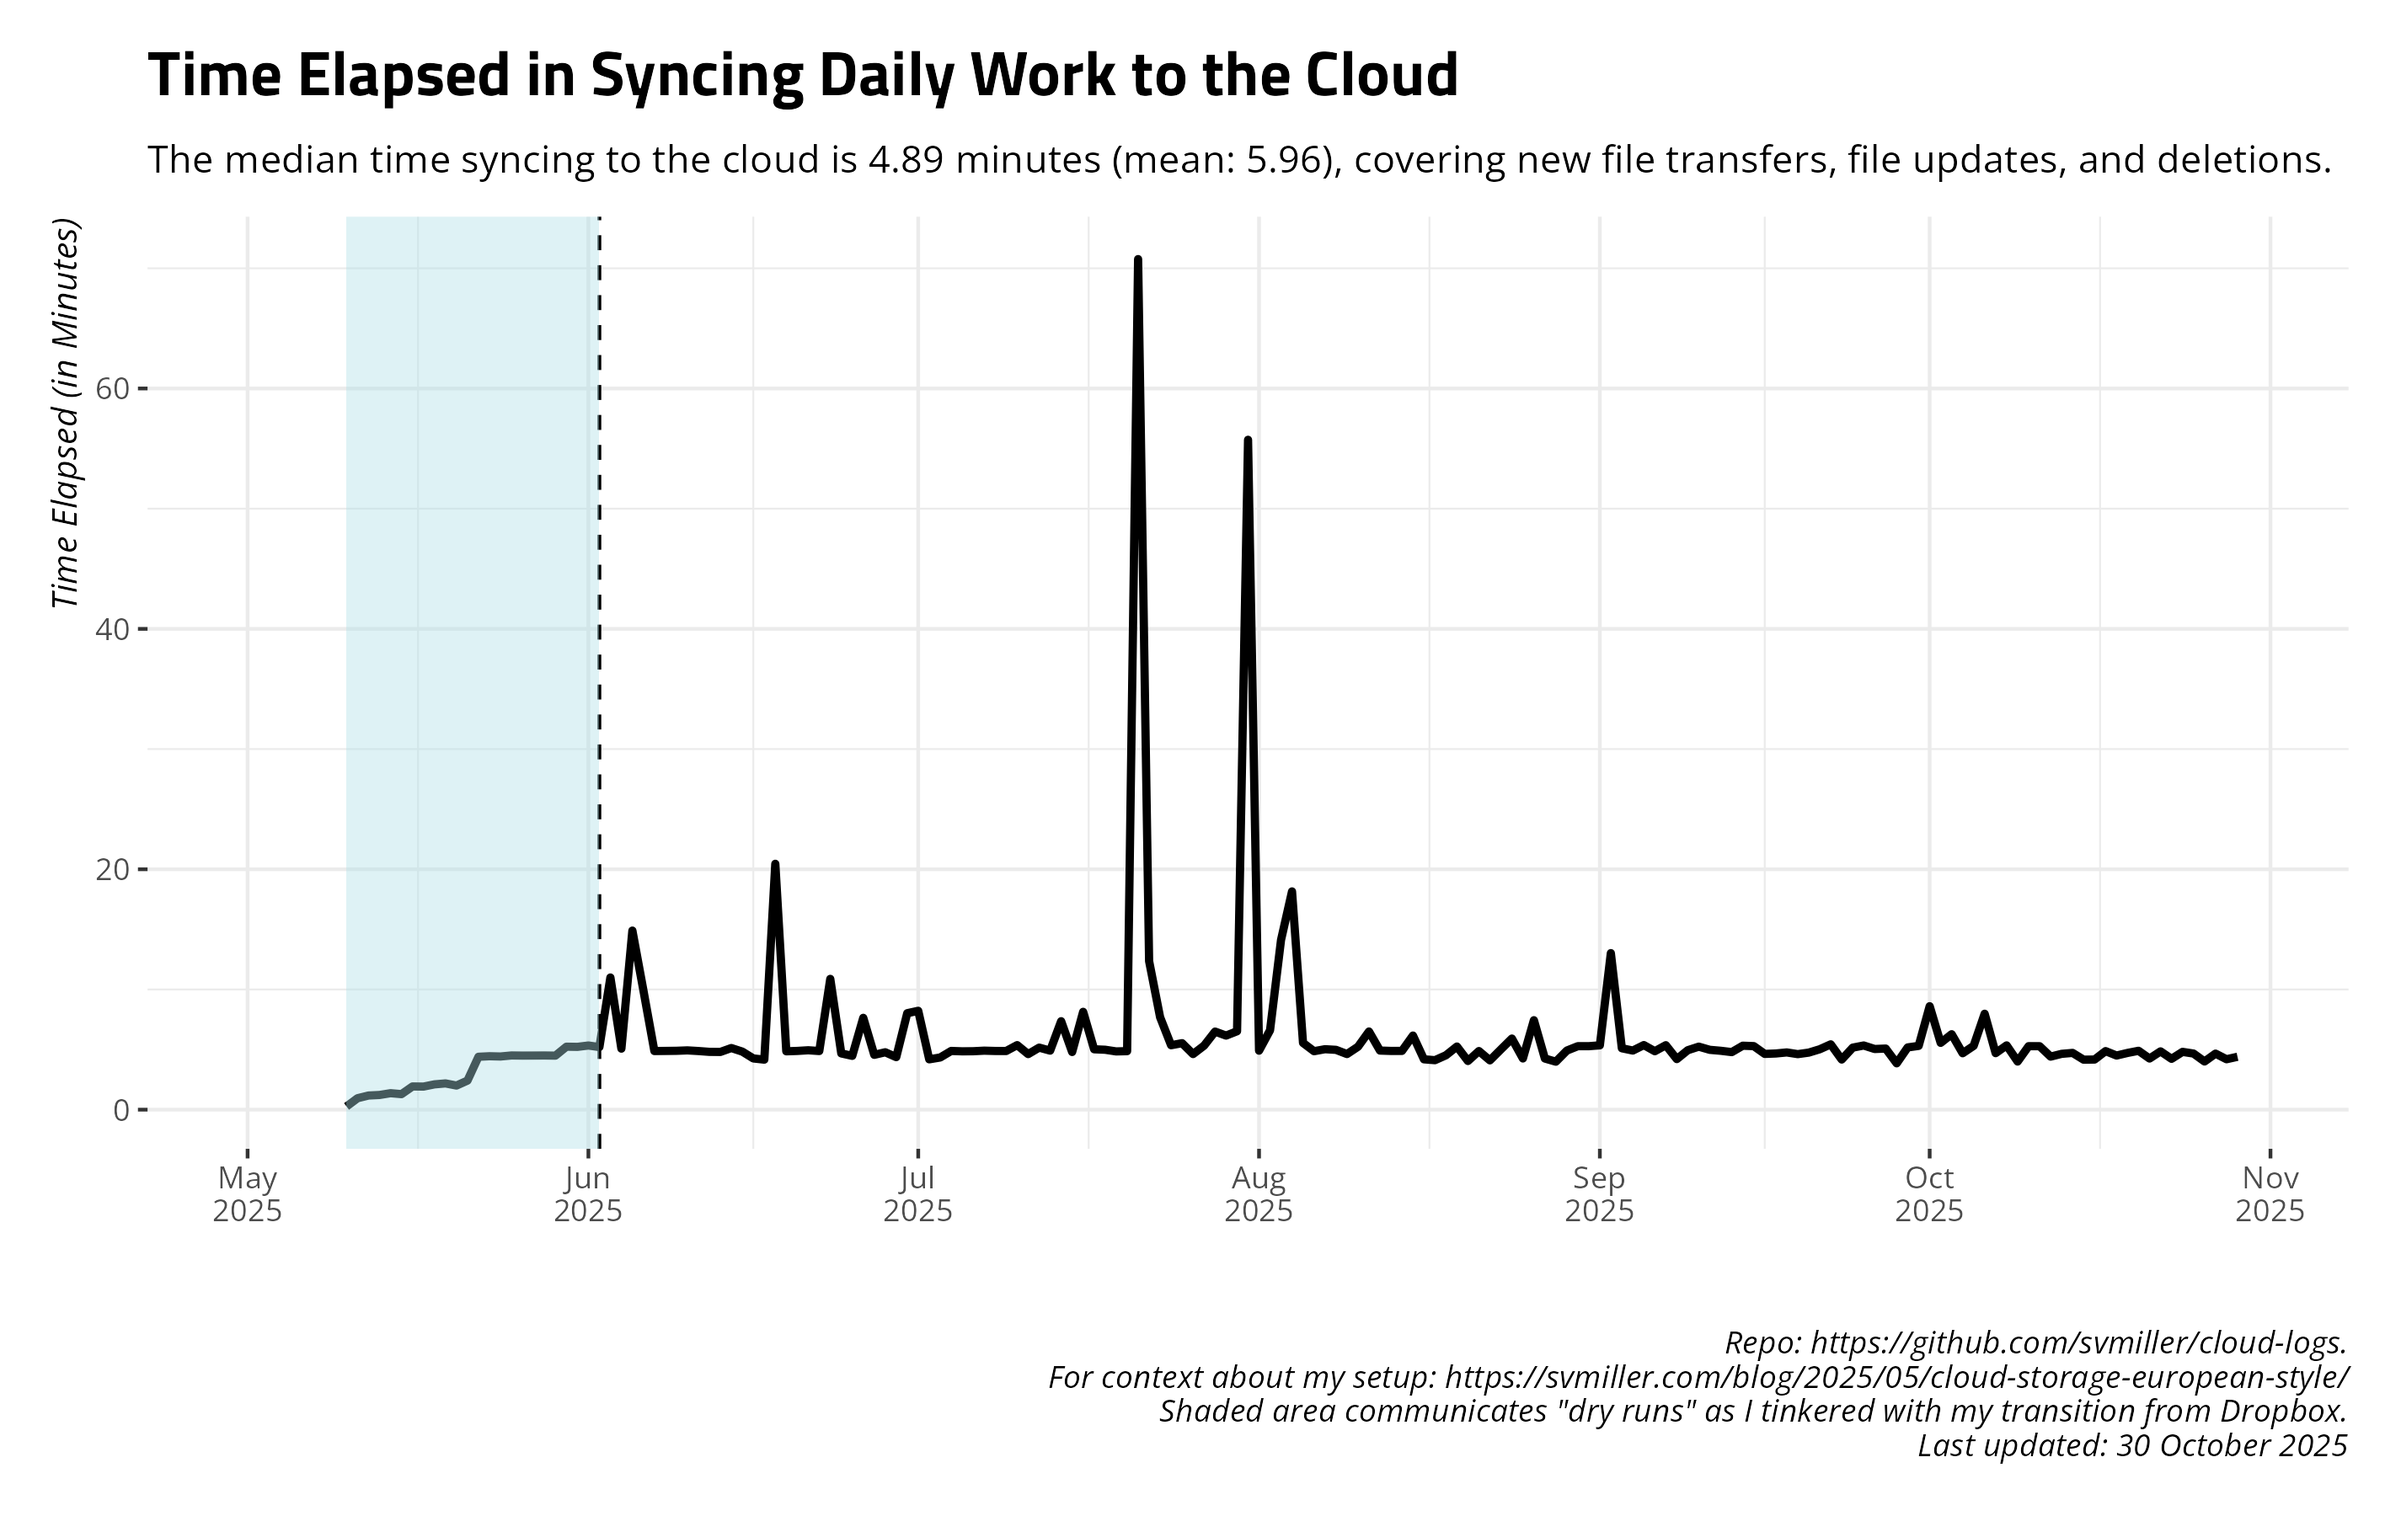
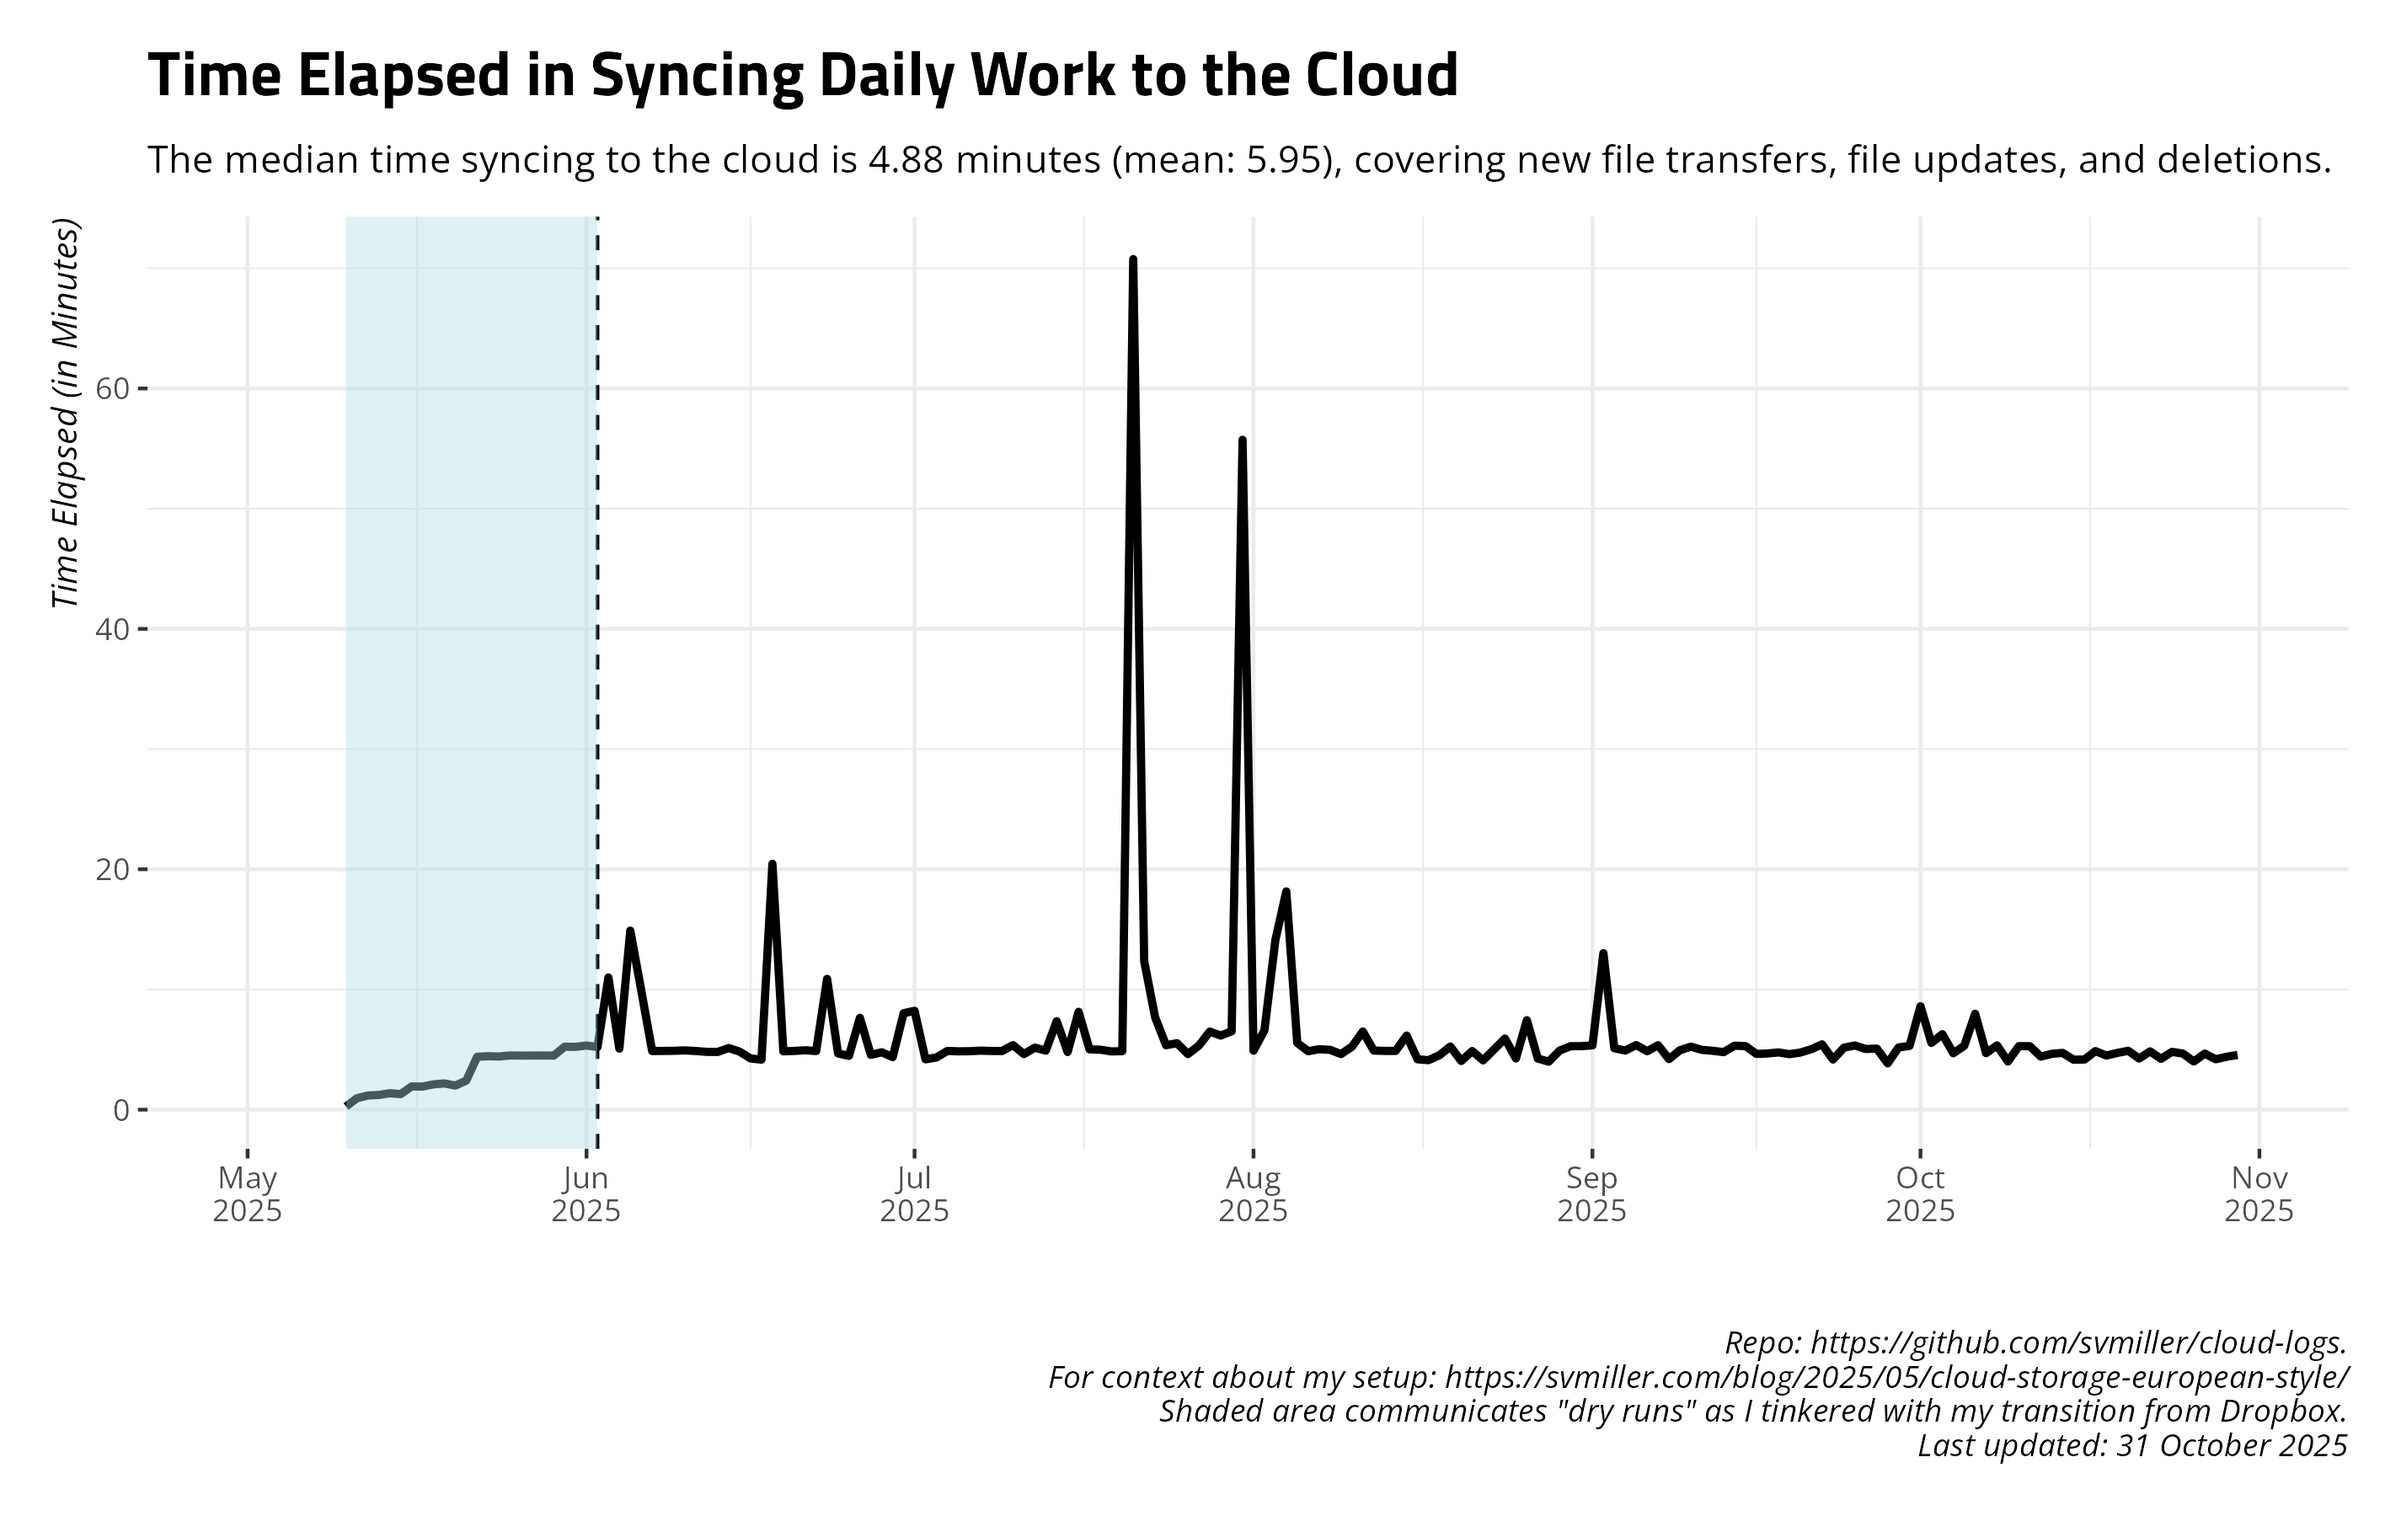
Date: 2025-10-31 09:00:17. Hi mom!

diff --git a/README.md b/README.md
@@ -27,17 +27,17 @@ and uploads to Github.
     #> # A tibble: 14 × 4
     #>    date       ftransfer stransfer   elapsed
     #>    <date>         <dbl> <chr>       <chr>  
-    #>  1 2025-10-16        73 3.849 MiB   4m10.2s
-    #>  2 2025-10-17       113 3.125 MiB   4m52.3s
-    #>  3 2025-10-18        48 633.468 KiB 4m30.2s
-    #>  4 2025-10-19        22 67.056 KiB  4m43.2s
-    #>  5 2025-10-20        37 397.260 KiB 4m53.9s
-    #>  6 2025-10-21       332 55.643 MiB  4m15.2s
-    #>  7 2025-10-22        13 1.903 MiB   4m51.0s
-    #>  8 2025-10-23        68 2.442 MiB   4m13.7s
-    #>  9 2025-10-24        49 714.508 KiB 4m48.5s
-    #> 10 2025-10-25        95 6.259 MiB   4m40.1s
-    #> 11 2025-10-26        42 393.283 KiB 4m0.4s 
-    #> 12 2025-10-27        24 143.556 KiB 4m39.8s
-    #> 13 2025-10-28       251 13.888 MiB  4m11.7s
-    #> 14 2025-10-29       111 8.451 MiB   4m24.0s
+    #>  1 2025-10-17       113 3.125 MiB   4m52.3s
+    #>  2 2025-10-18        48 633.468 KiB 4m30.2s
+    #>  3 2025-10-19        22 67.056 KiB  4m43.2s
+    #>  4 2025-10-20        37 397.260 KiB 4m53.9s
+    #>  5 2025-10-21       332 55.643 MiB  4m15.2s
+    #>  6 2025-10-22        13 1.903 MiB   4m51.0s
+    #>  7 2025-10-23        68 2.442 MiB   4m13.7s
+    #>  8 2025-10-24        49 714.508 KiB 4m48.5s
+    #>  9 2025-10-25        95 6.259 MiB   4m40.1s
+    #> 10 2025-10-26        42 393.283 KiB 4m0.4s 
+    #> 11 2025-10-27        24 143.556 KiB 4m39.8s
+    #> 12 2025-10-28       251 13.888 MiB  4m11.7s
+    #> 13 2025-10-29       111 8.451 MiB   4m24.0s
+    #> 14 2025-10-30        43 515.287 KiB 4m33.3s
